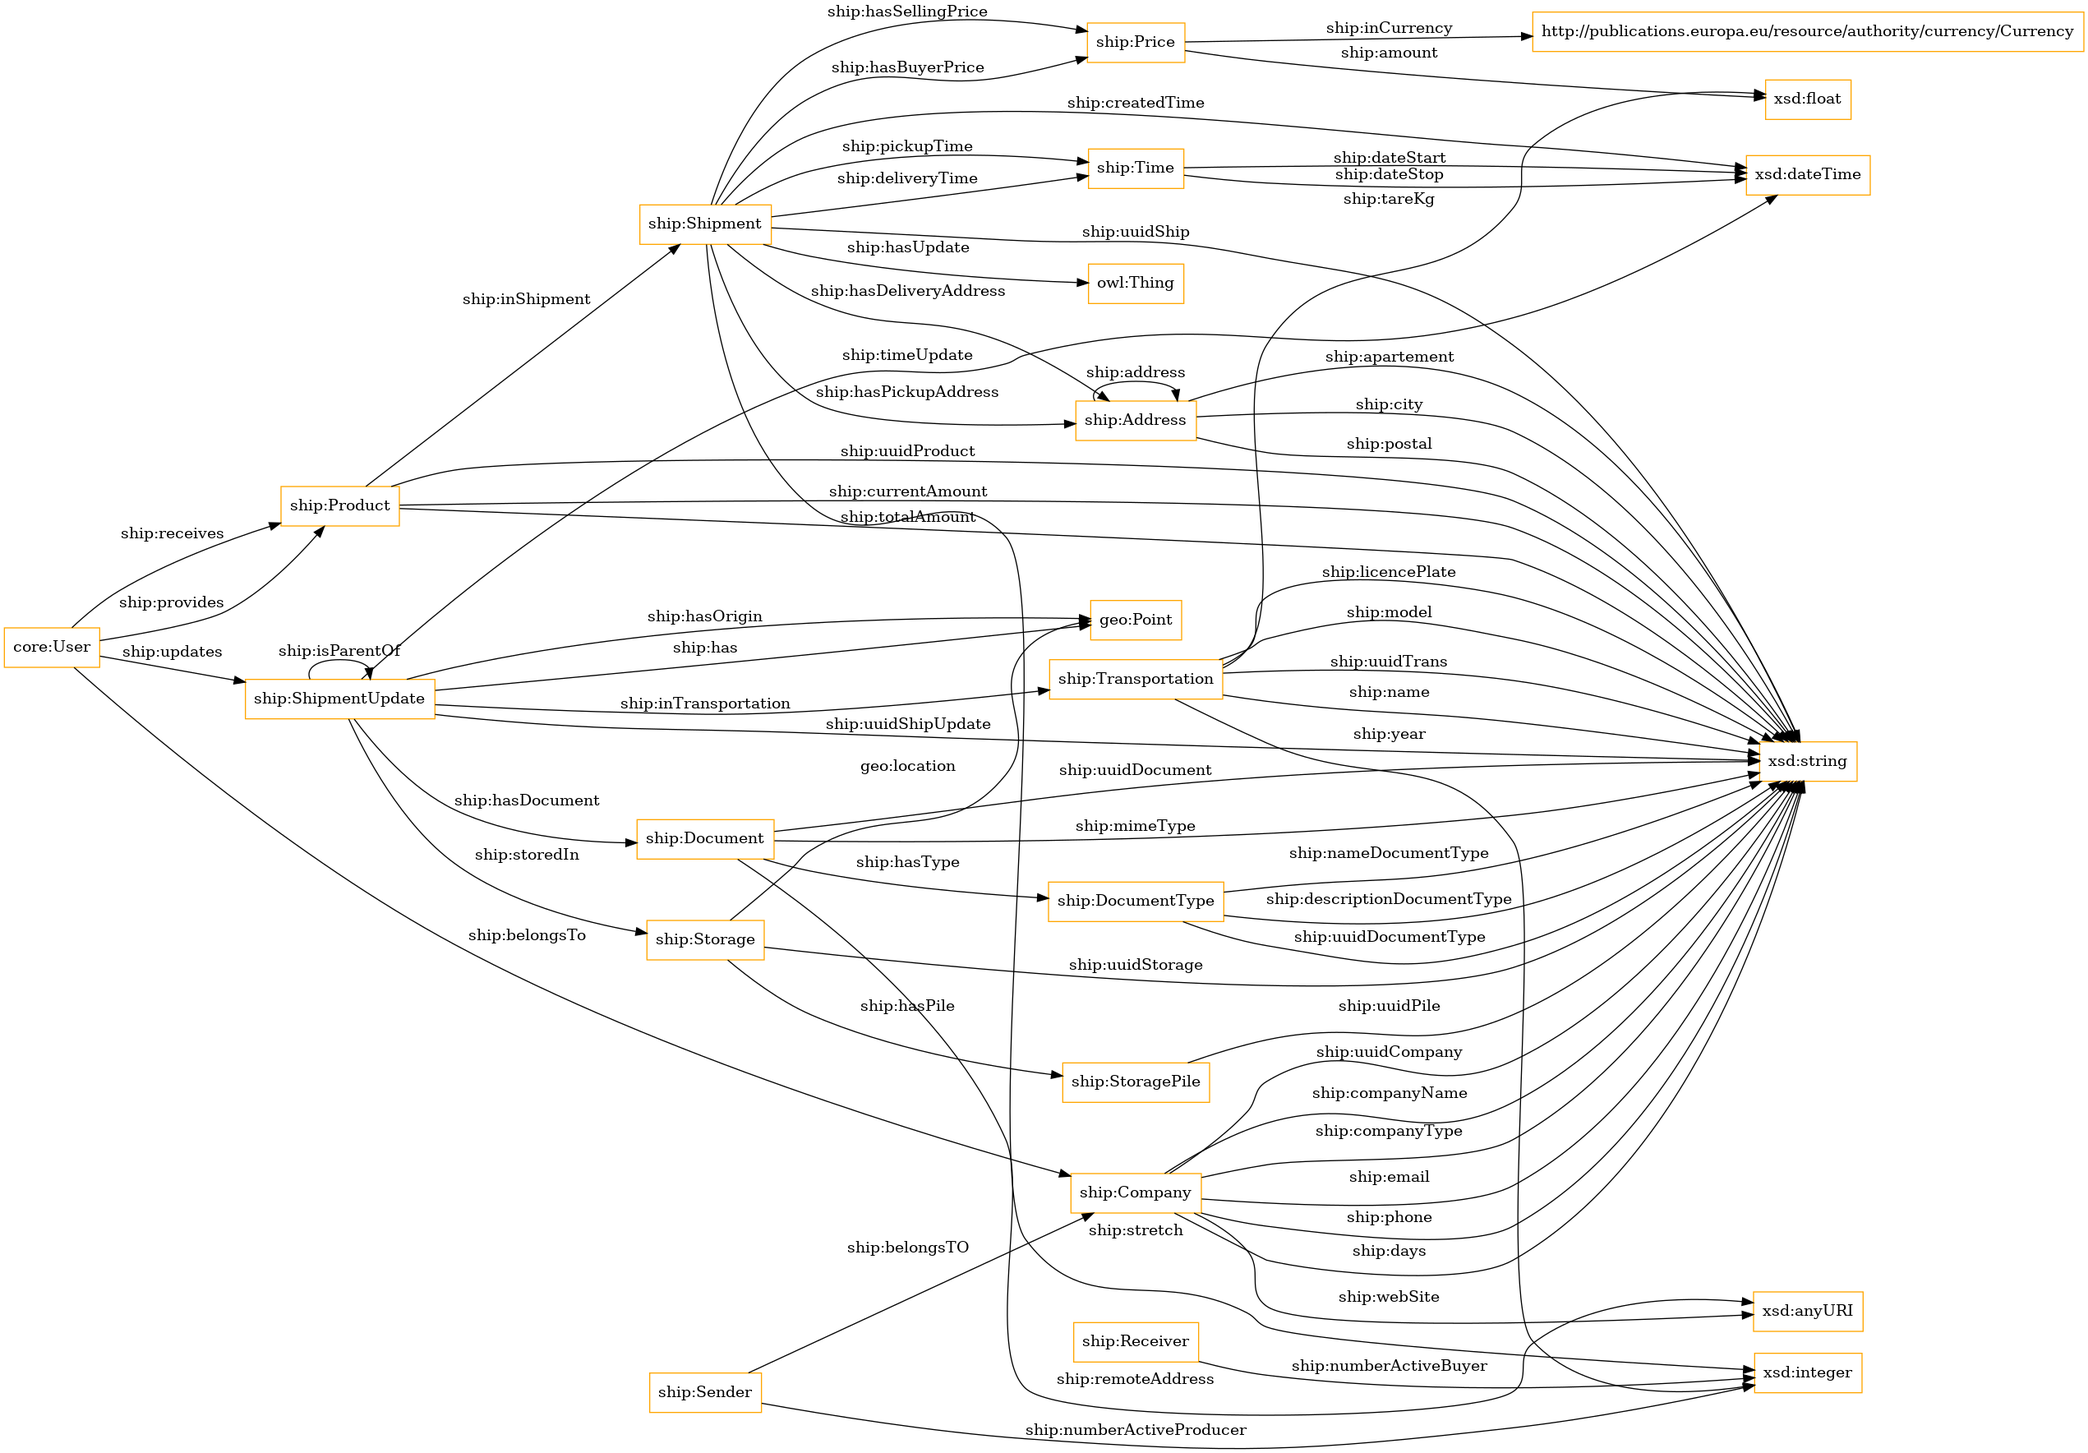
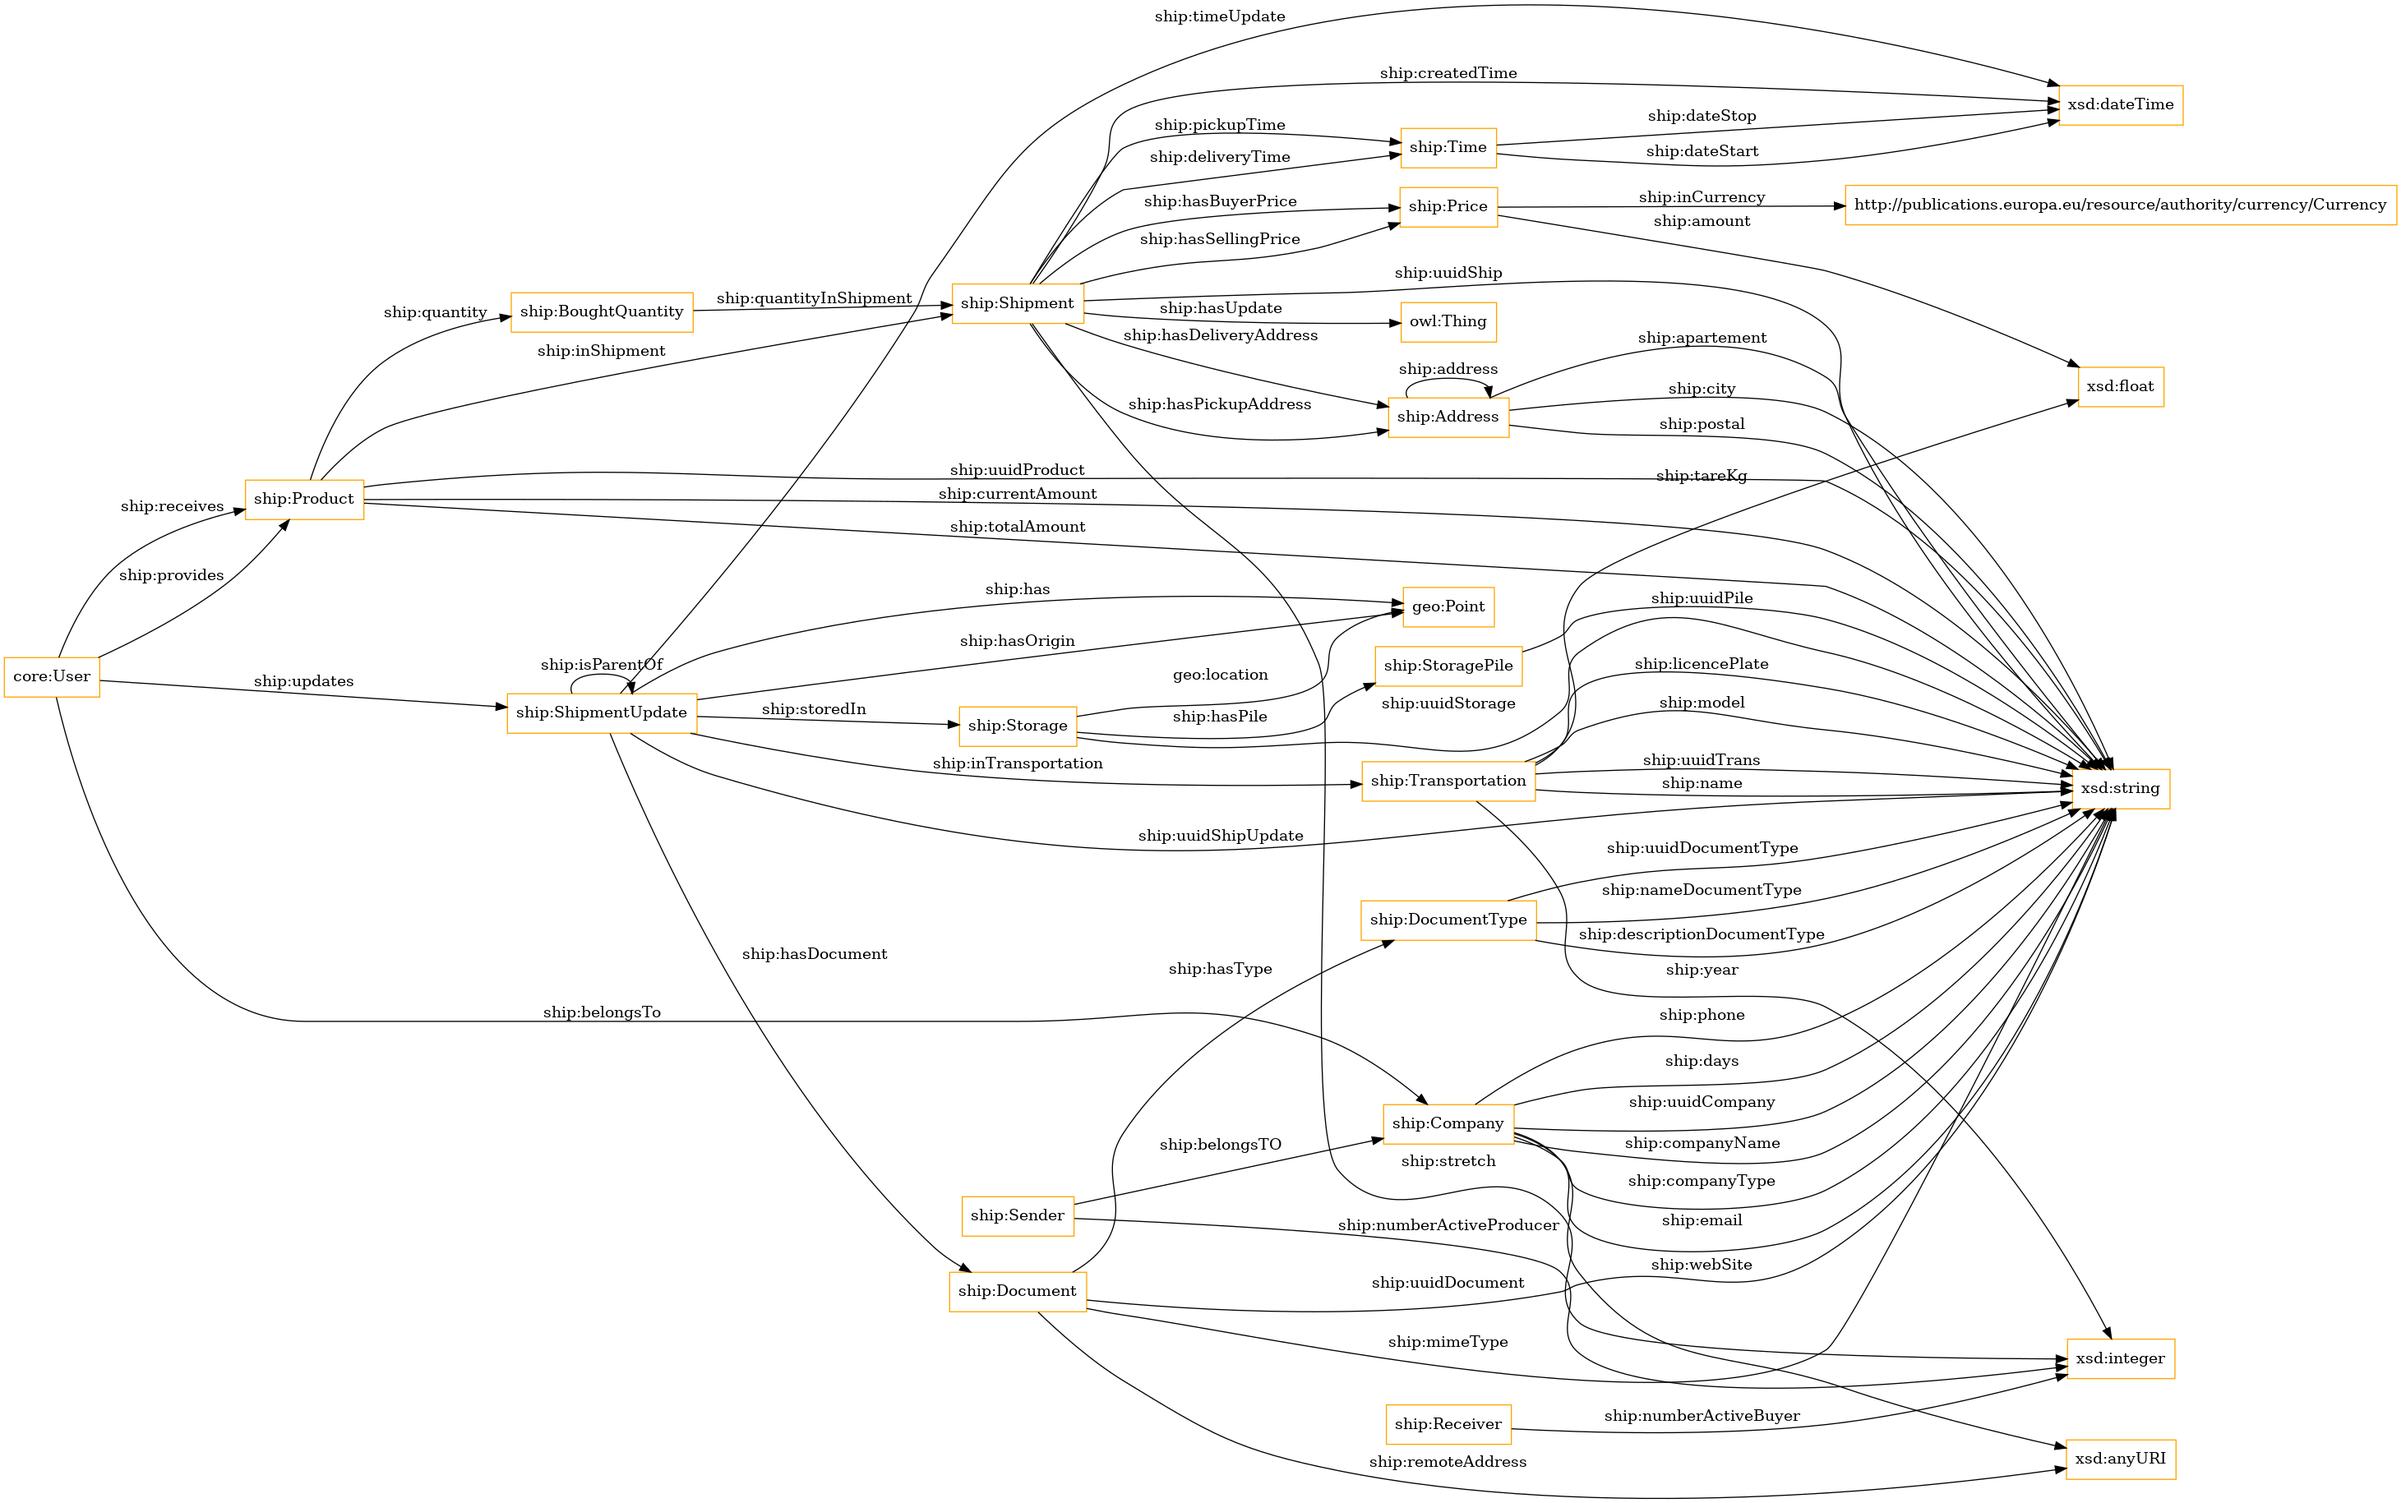
automated change

diff --git a/OnToology/ontology/shipment.ttl/documentation/sections/crossref-en.html b/OnToology/ontology/shipment.ttl/documentation/sections/crossref-en.html
@@ -14,6 +14,10 @@ This section provides details for each class and property defined by [Ontology N
             title="https://auroral.iot.linkeddata.es/def/biomass#Biomass">Biomass</a>
       </li>
       <li>
+         <a href="#BoughtQuantity"
+            title="https://auroral.iot.linkeddata.es/def/shipment#BoughtQuantity">Bought Quantity</a>
+      </li>
+      <li>
          <a href="#BuyerPrice"
             title="https://auroral.iot.linkeddata.es/def/shipment#BuyerPrice">
             <span>buyer price</span>
@@ -165,6 +169,28 @@ This section provides details for each class and property defined by [Ontology N
             <a href="#Product"
                title="https://auroral.iot.linkeddata.es/def/shipment#Product">Product</a>
             <sup class="type-c" title="class">c</sup>
+         </dd>
+      </dl>
+   </div>
+   <div class="entity" id="BoughtQuantity">
+      <h3>Bought Quantity<sup class="type-c" title="class">c</sup>
+         <span class="backlink"> back to <a href="#toc">ToC</a> or <a href="#classes">Class ToC</a>
+         </span>
+      </h3>
+      <p>
+         <strong>IRI:</strong> https://auroral.iot.linkeddata.es/def/shipment#BoughtQuantity</p>
+      <dl class="description">
+         <dt>is in domain of</dt>
+         <dd>
+            <a href="#quantityInShipment"
+               title="https://auroral.iot.linkeddata.es/def/shipment#quantityInShipment">quantity in shipment</a>
+            <sup class="type-op" title="object property">op</sup>
+         </dd>
+         <dt>is in range of</dt>
+         <dd>
+            <a href="#quantity"
+               title="https://auroral.iot.linkeddata.es/def/shipment#quantity">quantity</a>
+            <sup class="type-op" title="object property">op</sup>
          </dd>
       </dl>
    </div>
@@ -463,6 +489,8 @@ This section provides details for each class and property defined by [Ontology N
                title="https://auroral.iot.linkeddata.es/def/shipment#currentAmount">current amount</a>
             <sup class="type-dp" title="data property">dp</sup>, <a href="#inShipment"
                title="https://auroral.iot.linkeddata.es/def/shipment#inShipment">in shipment</a>
+            <sup class="type-op" title="object property">op</sup>, <a href="#quantity"
+               title="https://auroral.iot.linkeddata.es/def/shipment#quantity">quantity</a>
             <sup class="type-op" title="object property">op</sup>, <a href="#totalAmount"
                title="https://auroral.iot.linkeddata.es/def/shipment#totalAmount">total amount</a>
             <sup class="type-dp" title="data property">dp</sup>, <a href="#uuidProduct"
@@ -575,6 +603,8 @@ This section provides details for each class and property defined by [Ontology N
          <dd>
             <a href="#inShipment"
                title="https://auroral.iot.linkeddata.es/def/shipment#inShipment">in shipment</a>
+            <sup class="type-op" title="object property">op</sup>, <a href="#quantityInShipment"
+               title="https://auroral.iot.linkeddata.es/def/shipment#quantityInShipment">quantity in shipment</a>
             <sup class="type-op" title="object property">op</sup>
          </dd>
       </dl>
@@ -853,6 +883,18 @@ This section provides details for each class and property defined by [Ontology N
       <li>
          <a href="#provides"
             title="https://auroral.iot.linkeddata.es/def/shipment#provides">provides</a>
+      </li>
+      <li>
+         <a href="#quantity"
+            title="https://auroral.iot.linkeddata.es/def/shipment#quantity">
+            <span>quantity</span>
+         </a>
+      </li>
+      <li>
+         <a href="#quantityInShipment"
+            title="https://auroral.iot.linkeddata.es/def/shipment#quantityInShipment">
+            <span>quantity in shipment</span>
+         </a>
       </li>
       <li>
          <a href="#receives"
@@ -1373,6 +1415,54 @@ This section provides details for each class and property defined by [Ontology N
             <dd>
                <a href="#Product"
                   title="https://auroral.iot.linkeddata.es/def/shipment#Product">Product</a>
+               <sup class="type-c" title="class">c</sup>
+            </dd>
+         </dl>
+      </div>
+   </div>
+   <div class="entity" id="quantity">
+      <h3>quantity<sup class="type-op" title="object property">op</sup>
+         <span class="backlink"> back to <a href="#toc">ToC</a> or <a href="#objectproperties">Object Property ToC</a>
+         </span>
+      </h3>
+      <p>
+         <strong>IRI:</strong> https://auroral.iot.linkeddata.es/def/shipment#quantity</p>
+      <div class="description">
+         <dl>
+            <dt>has domain</dt>
+            <dd>
+               <a href="#Product"
+                  title="https://auroral.iot.linkeddata.es/def/shipment#Product">Product</a>
+               <sup class="type-c" title="class">c</sup>
+            </dd>
+            <dt>has range</dt>
+            <dd>
+               <a href="#BoughtQuantity"
+                  title="https://auroral.iot.linkeddata.es/def/shipment#BoughtQuantity">Bought Quantity</a>
+               <sup class="type-c" title="class">c</sup>
+            </dd>
+         </dl>
+      </div>
+   </div>
+   <div class="entity" id="quantityInShipment">
+      <h3>quantity in shipment<sup class="type-op" title="object property">op</sup>
+         <span class="backlink"> back to <a href="#toc">ToC</a> or <a href="#objectproperties">Object Property ToC</a>
+         </span>
+      </h3>
+      <p>
+         <strong>IRI:</strong> https://auroral.iot.linkeddata.es/def/shipment#quantityInShipment</p>
+      <div class="description">
+         <dl>
+            <dt>has domain</dt>
+            <dd>
+               <a href="#BoughtQuantity"
+                  title="https://auroral.iot.linkeddata.es/def/shipment#BoughtQuantity">Bought Quantity</a>
+               <sup class="type-c" title="class">c</sup>
+            </dd>
+            <dt>has range</dt>
+            <dd>
+               <a href="#Shipment"
+                  title="https://auroral.iot.linkeddata.es/def/shipment#Shipment">Shipment</a>
                <sup class="type-c" title="class">c</sup>
             </dd>
          </dl>

diff --git a/OnToology/ontology/shipment.ttl/documentation/sections/overview-en.html b/OnToology/ontology/shipment.ttl/documentation/sections/overview-en.html
@@ -14,6 +14,10 @@ This ontology has the following classes and properties.</span>
          title="https://auroral.iot.linkeddata.es/def/biomass#Biomass">Biomass</a>
    </li>
    <li>
+      <a href="#BoughtQuantity"
+         title="https://auroral.iot.linkeddata.es/def/shipment#BoughtQuantity">Bought Quantity</a>
+   </li>
+   <li>
       <a href="#BuyerPrice"
          title="https://auroral.iot.linkeddata.es/def/shipment#BuyerPrice">
          <span>buyer price</span>
@@ -200,6 +204,18 @@ This ontology has the following classes and properties.</span>
    <li>
       <a href="#provides"
          title="https://auroral.iot.linkeddata.es/def/shipment#provides">provides</a>
+   </li>
+   <li>
+      <a href="#quantity"
+         title="https://auroral.iot.linkeddata.es/def/shipment#quantity">
+         <span>quantity</span>
+      </a>
+   </li>
+   <li>
+      <a href="#quantityInShipment"
+         title="https://auroral.iot.linkeddata.es/def/shipment#quantityInShipment">
+         <span>quantity in shipment</span>
+      </a>
    </li>
    <li>
       <a href="#receives"
